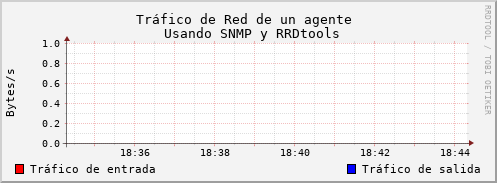
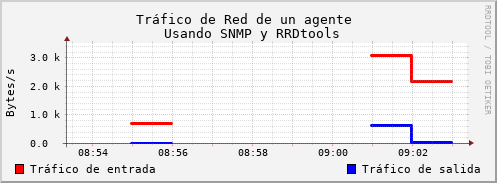
genera graficos

Changed region(s): [[0.0604, 0.2186, 0.9658, 0.8743], [0.0604, 0.765, 0.1207, 0.8197]]

diff --git a/4. AdministraciónDeContabilidad/graphRRD.py b/4. AdministraciónDeContabilidad/graphRRD.py
@@ -8,8 +8,8 @@ tiempo_inicial = tiempo_actual - 600
 
 
 ret = rrdtool.graph( "traficoRED.png",
-                     "--start",str(tiempo_inicial),
-                     "--end","N",
+                     "--start",str(tiempo_inicial),#se puede poner --start=num de fecha
+                     "--end",str(tiempo_actual),#N
                      "--vertical-label=Bytes/s",
                      "--title=Tráfico de Red de un agente \n Usando SNMP y RRDtools",
                      "DEF:traficoEntrada=traficoRED.rrd:inoctets:AVERAGE",
